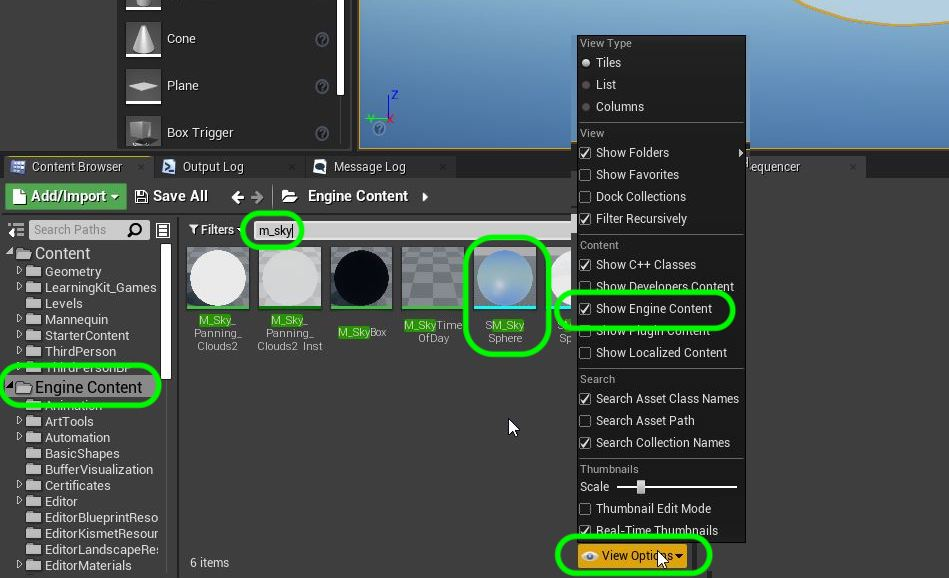
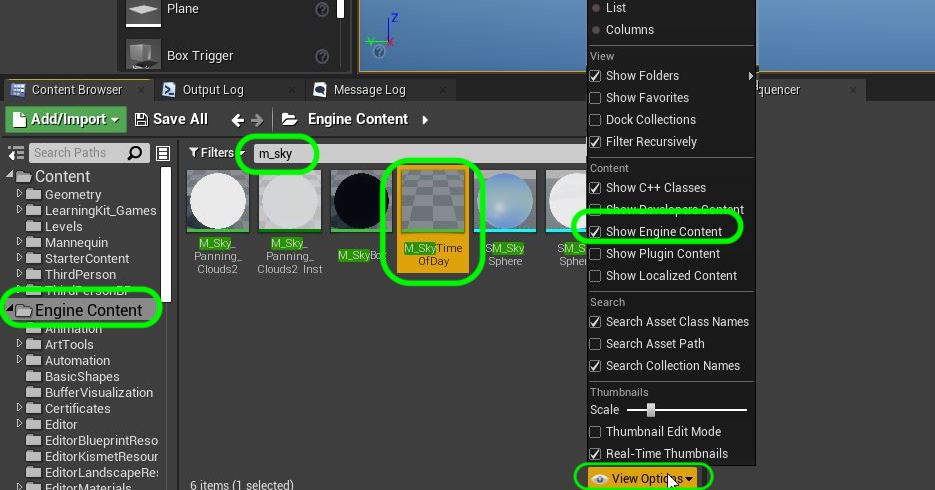
add new step

diff --git a/setting-sky/README.md b/setting-sky/README.md
@@ -55,7 +55,7 @@ From the **Place Actors | Basic** tab drag a **Sphere** into the level and call 
 
 ##### `Step 5.`\|`SUU&G`| :small_orange_diamond:
 
-Now **Unreal** provides us with some basic materials to start working with.  It is not in our set of files though and lies in the engine code.  Press on **View Options** and turn on **Show Engine Content** by setting it to `true`.  The select the **Engine Content** folder in the **Content Browser** and look for `M_Sky`.
+Now **Unreal** provides us with some basic materials to start working with.  It is not in our set of files though and lies in the engine code.  Press on **View Options** and turn on **Show Engine Content** by setting it to `true`.  The select the **Engine Content** folder in the **Content Browser** and type **M_Sky** as we are looking for `M_SkyTimeOfDay`.
 
 ![turn on engine content and look for m_sky](images/FindSkyMaterial.jpg)
 
